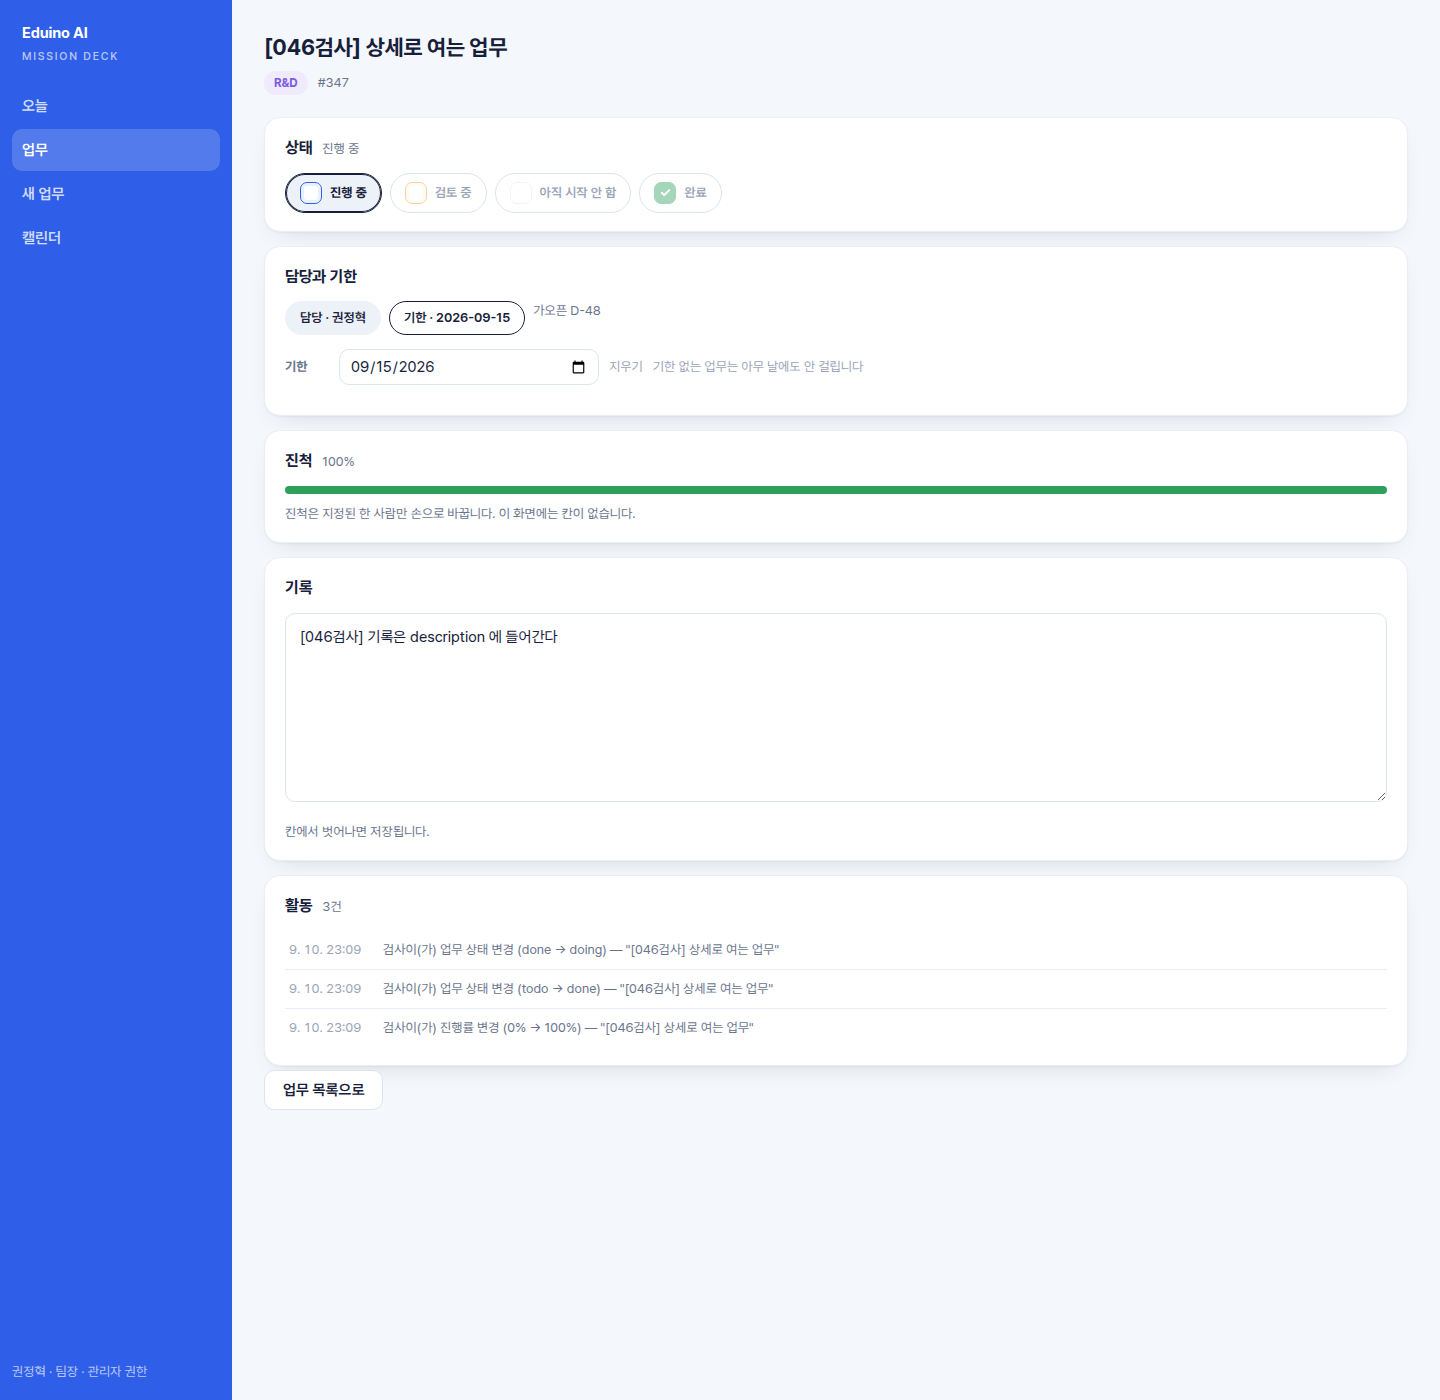
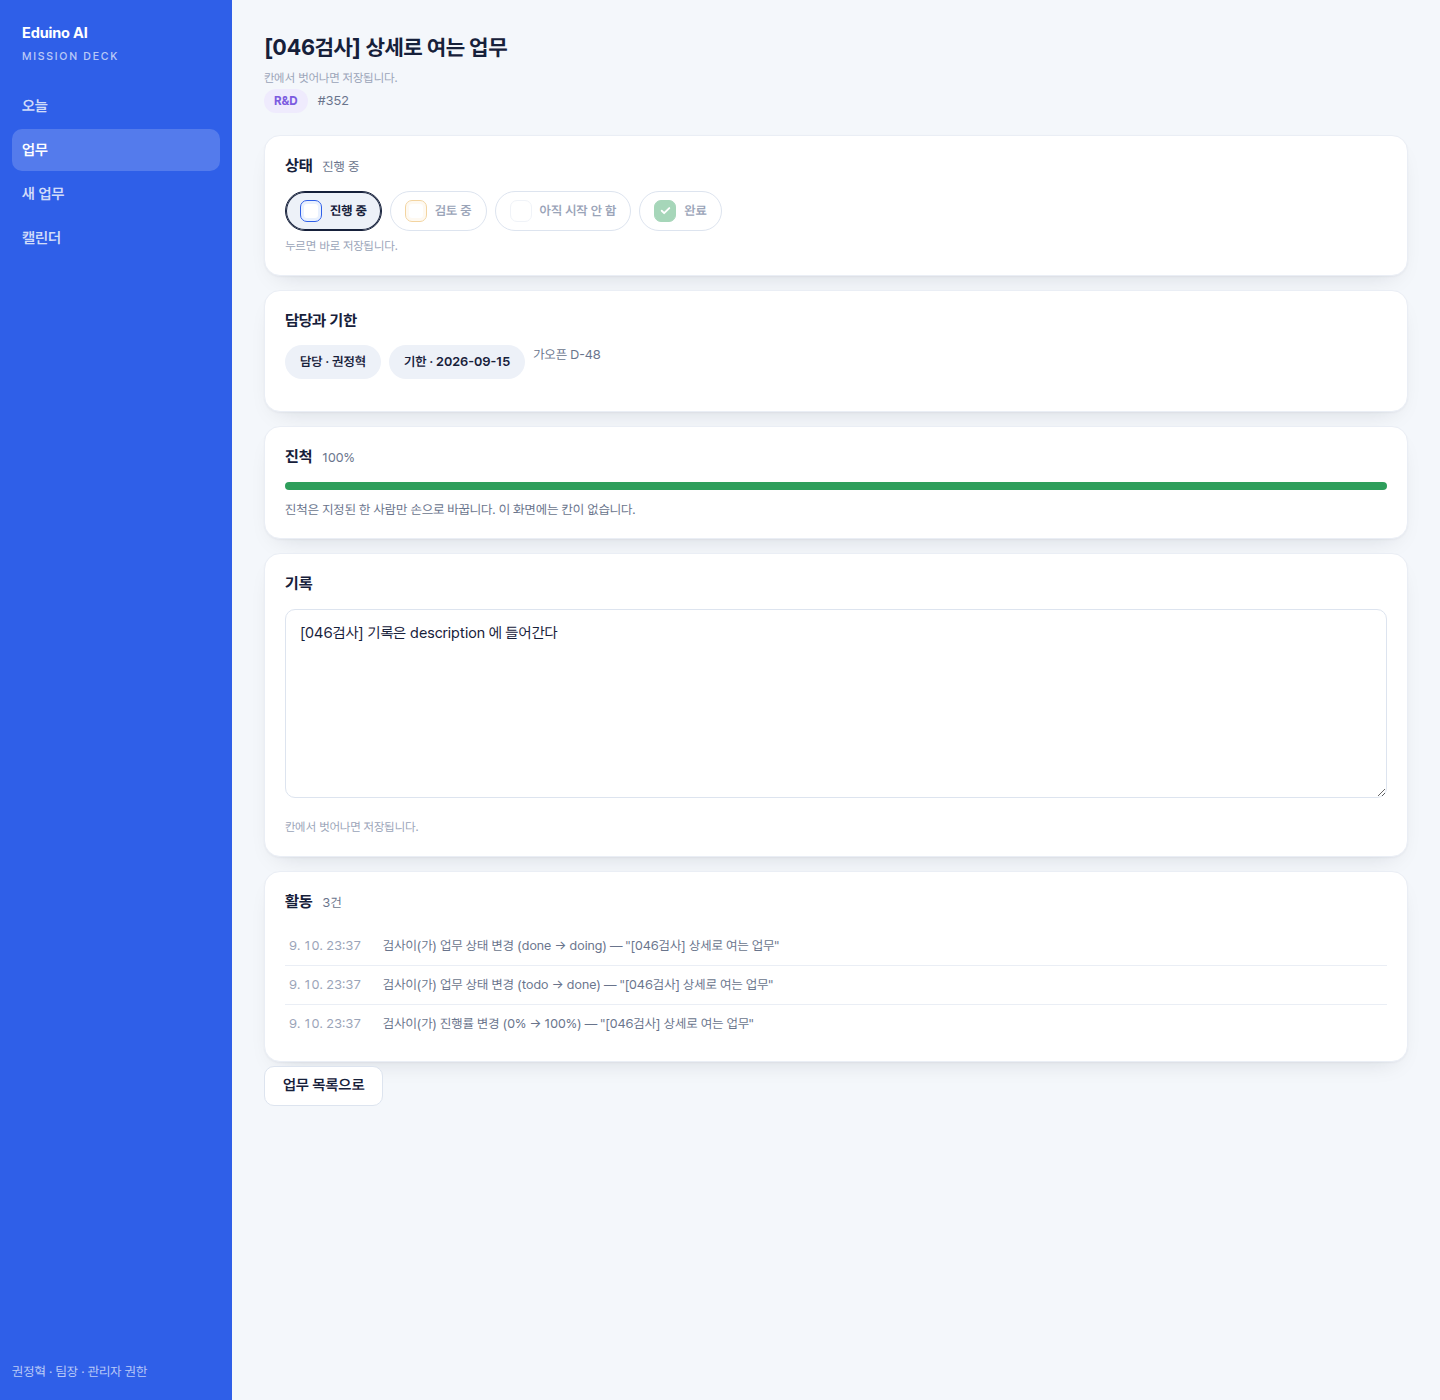
MD-P-2026-047 §B — 저장이 보이게 (31/31)
칸에서 벗어날 때 저장하는 방식은 그대로 뒀다 — 버튼을 만들면 안 누르고 나가서
잃는다. 대신 **증거를 상시로** 둔다.

  · 칸마다 한 줄이 붙어 있고 그 줄은 **안 사라진다**:
    안내 → 「저장 중…」 → 「마지막 저장 09:42」
  · 실패하면 같은 자리에 「저장 안 됨 · 사유」. 서버가 준 말 그대로다
  · 자리를 비워 두지 않는다(min-height) — 줄이 뛰면 누르려던 것을 빗맞힌다

시각은 **서버 것**을 쓴다. 응답의 `Date` 머리글이라 API 를 안 고치고 받을 수
있다. 브라우저 시계로 찍으면 시계가 틀린 기계에서 증거가 거짓말을 한다.

§B-1 빈 제목 — 화면이 서버 규칙을 그대로 비춘다
  API 는 빈 제목을 조용히 무시한다(조사표). 그래서 화면만 비면 「화면은 비었는데
  저장은 안 됨」이 되고 새로고침하면 옛 제목이 돌아온다. 보내기 전에 되돌리고
  「제목은 비울 수 없습니다」를 적는다. **API 는 안 고쳤다.**

§G 승격 두 건이 코드에 서 있다
  · 모양 하나가 두 가지를 말하게 두지 않는다 — 상태 카드가 지금 상태를 글자로도 적는다
  · 한 번에 하나씩 저장한다 — 저장 상태가 칸마다 따로다. 검사기 ㉣ 가
    기한이 400 을 받아도 제목 줄은 안 물드는 것을 값으로 확인한다

검사기 4건 추가 (㉠ ㉠짝 ㉡ ㉢ ㉣) — scripts/v3-detail-walk.mjs 31/31.

Claude-Session: https://claude.ai/code/session_01Xpp231V8pSM3sVcBoRknqv

diff --git a/components/v3/TaskDetailView.tsx b/components/v3/TaskDetailView.tsx
@@ -14,11 +14,18 @@
 // 못 바꾸는 것(진척)은 칸 대신 **이유 한 줄**을 단다 — 칸이 있는데 안 먹히는
 // 것보다, 칸이 없고 왜 없는지 적혀 있는 편이 낫다.
 //
-// ── 저장은 한 칸씩 ──────────────────────────────────────────────
+// ── 저장은 한 칸씩 (§G) ─────────────────────────────────────────
 //
 // 「저장」 버튼 하나로 묶지 않는다. 다섯 칸이 각자 다른 이유로 거절당할 수
 // 있는데(400·403), 묶어 보내면 어느 칸 때문인지 알 수가 없다. 한 칸씩 보내면
 // 서버가 준 이유가 **그 칸 옆에** 선다.
+//
+// ── 저장이 보이게 (047 §B) ──────────────────────────────────────
+//
+// 칸에서 벗어날 때 저장하는 방식은 그대로 둔다 — 버튼을 만들면 안 누르고
+// 나가서 잃는다. 대신 **증거를 상시로 둔다.** 칸마다 한 줄이 붙어 있고
+// 그 줄은 안 사라진다: 안내 → 저장 중… → 마지막 저장 09:42.
+// 실패하면 같은 자리에 「저장 안 됨 · 사유」가 선다.
 import { useCallback, useEffect, useState } from "react";
 import Link from "next/link";
 import { useRouter } from "next/navigation";
@@ -26,7 +33,8 @@ import { Card, InputChip, Button, Tag, Checkbox, Empty } from "./parts";
 import type { CbState } from "./parts";
 import {
   STATUS_CHOICES, statusEditable, progressWhy, dueOpenNote, patchBody, changed,
-  childSummary, type DetailTask, type ActivityRow, type EditField,
+  childSummary, saveNote, stampFrom, titleReject, IDLE,
+  type DetailTask, type ActivityRow, type EditField, type SaveState,
 } from "@/lib/v3/detail";
 import { dueTone } from "@/lib/v3/tasks";
 import { areaOf, type AreaView } from "@/lib/v3/category";
@@ -61,8 +69,12 @@ export default function TaskDetailView({
   const [task, setTask] = useState<DetailTask | null>(null);
   const [activity, setActivity] = useState<ActivityRow[]>([]);
   const [err, setErr] = useState("");        // 못 불러온 이유
-  const [saveErr, setSaveErr] = useState(""); // 서버가 거절한 이유 — **그대로** 낸다
-  const [busy, setBusy] = useState<EditField | null>(null);
+  /** 칸마다 따로 (§G — 한 번에 하나씩 저장한다). 하나로 묶으면 어느 칸이 거부됐는지 모른다. */
+  const [save, setSave] = useState<Record<EditField, SaveState>>({
+    title: IDLE, description: IDLE, status: IDLE, assigneeId: IDLE, dueDate: IDLE,
+  });
+  const put = (f: EditField, patch: Partial<SaveState>) =>
+    setSave((prev) => ({ ...prev, [f]: { ...prev[f], ...patch } }));
   const [open, setOpen] = useState<Set<string>>(new Set());
   // 편집 중인 글자. 저장 전까지는 화면 것이 이긴다.
   const [title, setTitle] = useState("");
@@ -84,21 +96,23 @@ export default function TaskDetailView({
    * 한 칸을 보낸다. **안 바뀐 값은 안 보낸다** — 보내면 활동 로그가 더러워지고,
    * 「고친 적 없는데 고쳤다고 적혀 있다」가 된다.
    */
-  const save = useCallback(async (field: EditField, value: string | number | null) => {
-    setSaveErr("");
-    setBusy(field);
+  const send = useCallback(async (field: EditField, value: string | number | null) => {
+    put(field, { busy: true, err: "" });
     const res = await fetch(`/api/tasks/${id}`, {
       method: "PATCH",
       headers: { "Content-Type": "application/json" },
       body: JSON.stringify(patchBody(field, value)),
     });
     const data = await res.json().catch(() => ({}));
-    setBusy(null);
     if (!res.ok) {
       // **서버가 준 이유를 그대로 낸다.** 삼키면 사람은 같은 저장을 반복한다.
-      setSaveErr(data.error ?? `저장하지 못했습니다 (${res.status})`);
+      // 「마지막 저장」 시각은 **안 건드린다** — 이번 것은 저장 안 됐으니까.
+      put(field, { busy: false, err: data.error ?? `저장하지 못했습니다 (${res.status})` });
       return false;
     }
+    // 시각은 **서버 것**을 쓴다(응답의 `Date` 머리글). 브라우저 시계로 찍으면
+    // 시계가 틀린 기계에서 증거로 내놓은 숫자가 거짓말을 한다.
+    put(field, { busy: false, err: "", savedAt: stampFrom(res.headers.get("date")) });
     await load();
     // 목록·오늘 화면이 옛 값을 들고 있을 수 있다. 되돌아갈 때 새로 읽게 한다.
     router.refresh();
@@ -107,6 +121,17 @@ export default function TaskDetailView({
 
   const toggle = (k: string) =>
     setOpen((prev) => { const n = new Set(prev); if (n.has(k)) n.delete(k); else n.add(k); return n; });
+
+  /**
+   * 그 칸의 저장 증거 한 줄. **안 사라진다** — 잠깐 떴다 사라지는 표시는
+   * 못 보면 없는 것과 같다(047 §B). `aria-live` 로 소리로도 알린다.
+   */
+  const Note = ({ field, hint }: { field: EditField; hint: string }) => {
+    const n = saveNote(save[field], hint);
+    return (
+      <p className={`v3-save t-${n.tone}`} aria-live="polite" data-field={field}>{n.text}</p>
+    );
+  };
 
   if (err) {
     return (
@@ -144,21 +169,26 @@ export default function TaskDetailView({
         aria-label="제목"
         onChange={(e) => setTitle(e.target.value)}
         onBlur={() => {
-          const next = title.trim();
-          // 빈 제목은 API 가 **조용히 무시한다**(§B-1). 조용히 무시되느니
-          // 되돌려 놓고 이유를 적는다 — 지웠는데 남아 있으면 고장으로 읽힌다.
-          if (next === "") { setTitle(task.title); setSaveErr("제목은 비울 수 없습니다."); return; }
-          if (changed(task.title, next)) void save("title", next);
+          /*
+           * 빈 제목은 API 가 **조용히 무시한다**(§B-1 조사표). 화면만 비워 두면
+           * 「화면은 비었는데 저장은 안 됨」이 되고, 새로고침하면 옛 제목이
+           * 돌아온다 — 사람은 그걸 고장으로 읽는다.
+           *
+           * 그래서 보내기 전에 화면이 **서버 규칙을 그대로 비춘다**: 되돌리고
+           * 이유를 적는다. API 는 안 고친다 (047 §B-1).
+           */
+          const why = titleReject(title);
+          if (why) { setTitle(task.title); put("title", { busy: false, err: why }); return; }
+          if (changed(task.title, title.trim())) void send("title", title.trim());
         }}
       />
+      <Note field="title" hint="칸에서 벗어나면 저장됩니다." />
 
       <p className="v3-lede v3-dmeta">
         {area && <Tag area={area} />}
         <span>#{task.id}</span>
         {kids && <span>{kids}</span>}
       </p>
-
-      {saveErr && <p className="v3-err v3-dsave">{saveErr}</p>}
 
       {/*
         지금 상태를 **글자로도** 적는다(`sub`). 네 칸 중 하나만 테두리가 진한
@@ -175,14 +205,15 @@ export default function TaskDetailView({
                 type="button"
                 className={`v3-stbtn${task.status === s.value ? " on" : ""}`}
                 aria-pressed={task.status === s.value}
-                disabled={busy === "status"}
-                onClick={() => { if (task.status !== s.value) void save("status", s.value); }}
+                disabled={save.status.busy}
+                onClick={() => { if (task.status !== s.value) void send("status", s.value); }}
               >
                 <Checkbox state={stateOf(s.value)} />
                 {s.label}
               </button>
             ))}
           </div>
+          <Note field="status" hint="누르면 바로 저장됩니다." />
           {/* 완료 되돌리기는 **여기에만** 있다 (지시 §B-2). 목록의 체크는 안 만든다 —
               스치듯 눌러서 되돌아가는 자리가 아니다. */}
           {task.status === "done" && (
@@ -216,8 +247,8 @@ export default function TaskDetailView({
         {open.has("assignee") && (
           <div className="v3-newrow">
             <label htmlFor="v3-d-as">담당</label>
-            <select id="v3-d-as" value={task.assigneeId ?? ""} disabled={busy === "assigneeId"}
-                    onChange={(e) => void save("assigneeId", Number(e.target.value))}>
+            <select id="v3-d-as" value={task.assigneeId ?? ""} disabled={save.assigneeId.busy}
+                    onChange={(e) => void send("assigneeId", Number(e.target.value))}>
               {task.assigneeId === null && <option value="">— 담당 없음</option>}
               {people.map((p) => <option key={p.id} value={p.id}>{p.name}</option>)}
             </select>
@@ -226,13 +257,14 @@ export default function TaskDetailView({
             <span className="v3-newwhy">담당을 비우는 자리는 두지 않았습니다</span>
           </div>
         )}
+        {open.has("assignee") && <Note field="assigneeId" hint="고르면 바로 저장됩니다." />}
         {open.has("due") && (
           <div className="v3-newrow">
             <label htmlFor="v3-d-due">기한</label>
-            <input id="v3-d-due" type="date" value={task.dueDate ?? ""} disabled={busy === "dueDate"}
-                   onChange={(e) => void save("dueDate", e.target.value)} />
+            <input id="v3-d-due" type="date" value={task.dueDate ?? ""} disabled={save.dueDate.busy}
+                   onChange={(e) => void send("dueDate", e.target.value)} />
             {task.dueDate && (
-              <button type="button" className="v3-clear" onClick={() => void save("dueDate", "")}>
+              <button type="button" className="v3-clear" onClick={() => void send("dueDate", "")}>
                 지우기
               </button>
             )}
@@ -240,6 +272,7 @@ export default function TaskDetailView({
             <span className="v3-newwhy">기한 없는 업무는 아무 날에도 안 걸립니다</span>
           </div>
         )}
+        {open.has("due") && <Note field="dueDate" hint="고르면 바로 저장됩니다." />}
       </Card>
 
       <Card title="진척" sub={`${task.effectiveProgress}%`}>
@@ -259,10 +292,10 @@ export default function TaskDetailView({
           placeholder="무엇을 왜 하는지, 알아 둘 것이 있으면 적어 두세요."
           value={note}
           onChange={(e) => setNote(e.target.value)}
-          onBlur={() => { if (changed(task.description, note)) void save("description", note); }}
+          onBlur={() => { if (changed(task.description, note)) void send("description", note); }}
         />
         {/* 문구에 백틱·별표를 쓰지 않는다 — 여기는 마크다운이 아니라서 글자 그대로 찍힌다. */}
-        <p className="v3-why">칸에서 벗어나면 저장됩니다.</p>
+        <Note field="description" hint="칸에서 벗어나면 저장됩니다." />
       </Card>
 
       {task.children.length > 0 && (
@@ -293,7 +326,6 @@ export default function TaskDetailView({
 
       <div className="v3-newfoot">
         <Button onClick={() => router.push("/v3/tasks")}>업무 목록으로</Button>
-        {busy && <span className="v3-newwhy">저장 중…</span>}
       </div>
     </>
   );

diff --git a/lib/v3/detail.ts b/lib/v3/detail.ts
@@ -141,6 +141,76 @@ export function changed(before: string | number | null, after: string | number |
   return (before ?? "") !== (after ?? "");
 }
 
+/* ══ 저장이 보이게 (MD-P-2026-047 §B) ═══════════════════════════════
+ *
+ * 칸에서 벗어날 때 저장하는 방식은 그대로 둔다 — 버튼을 만들면 안 누르고 나가서
+ * 잃는다. 대신 **저장된 증거가 화면에 상시로 있어야 한다.**
+ *
+ * 잠깐 떴다 사라지는 표시는 못 보면 없는 것과 같다. 그래서 이 자리는
+ * **안 사라진다**: 저장 전에는 안내, 저장 중에는 「저장 중…」, 저장 뒤에는
+ * 「마지막 저장 09:42」가 그대로 남는다. 실패하면 사유가 **그 칸 옆에** 선다.
+ *
+ * 상태가 칸마다 따로인 이유는 §G 다 — **한 번에 하나씩 저장한다.** 하나로
+ * 묶으면 다섯 칸 중 어느 것이 거부됐는지 알 수 없다.
+ */
+export type SaveTone = "hint" | "busy" | "ok" | "err";
+
+export interface SaveState {
+  busy: boolean;
+  /** 서버가 저장을 확인한 시각(ms). 아직 없으면 null. */
+  savedAt: number | null;
+  /** 서버가 준 거절 사유. **그대로** 담는다 — 고쳐 적으면 다른 말이 된다. */
+  err: string;
+}
+
+export const IDLE: SaveState = { busy: false, savedAt: null, err: "" };
+
+/**
+ * 시각을 **KST 시:분**으로. 날짜를 자르는 것이 아니라 순간을 찍는 것이지만,
+ * 시간대는 여기서도 정하고 본다 — 「09:42」가 기계마다 다르면 증거가 아니다.
+ */
+export function clockKst(ms: number): string {
+  return new Intl.DateTimeFormat("ko-KR", {
+    timeZone: "Asia/Seoul", hour: "2-digit", minute: "2-digit", hour12: false,
+  }).format(new Date(ms));
+}
+
+/** 그 칸 옆에 적을 한 줄. **빈 문자열을 내지 않는다** — 자리가 없어지면 줄이 뛴다. */
+export function saveNote(s: SaveState, hint: string): { tone: SaveTone; text: string } {
+  if (s.busy) return { tone: "busy", text: "저장 중…" };
+  // 실패가 성공보다 먼저다. 「마지막 저장 09:42」 옆에서 조용히 실패하면
+  // 사람은 저장된 줄 안다.
+  if (s.err) return { tone: "err", text: `저장 안 됨 · ${s.err}` };
+  if (s.savedAt !== null) return { tone: "ok", text: `마지막 저장 ${clockKst(s.savedAt)}` };
+  return { tone: "hint", text: hint };
+}
+
+/**
+ * 서버가 저장을 확인한 시각. **응답의 `Date` 머리글**을 쓴다.
+ *
+ * 브라우저 시계로 찍으면 시계가 틀린 기계에서 「마지막 저장 03:12」가 뜬다 —
+ * 증거로 내놓은 숫자가 거짓말을 하는 셈이다. `Date` 는 HTTP 가 늘 붙이는
+ * 머리글이라 **API 를 안 고치고** 서버 시각을 받을 수 있다.
+ * 없거나 못 읽으면 브라우저 시계로 내려간다 — 시각이 아예 없는 것보다 낫다.
+ */
+export function stampFrom(dateHeader: string | null): number {
+  const ms = dateHeader ? Date.parse(dateHeader) : NaN;
+  return Number.isFinite(ms) ? ms : Date.now();
+}
+
+/**
+ * 빈 제목은 API 가 **조용히 무시한다**(§B-1 조사표). 화면만 비면
+ * 「화면은 비었는데 저장은 안 됨」이 되고, 새로고침하면 옛 제목이 돌아온다.
+ *
+ * 그래서 보내기 전에 화면이 **서버 규칙을 그대로 비춘다** — 되돌리고 이유를 적는다.
+ * API 는 안 고친다 (047 §B-1).
+ */
+export const EMPTY_TITLE_WHY = "제목은 비울 수 없습니다";
+
+export function titleReject(next: string): string | null {
+  return next.trim() === "" ? EMPTY_TITLE_WHY : null;
+}
+
 /** 하위 진행 요약. 하위가 없으면 `null` — 없는 줄을 그리지 않는다. */
 export function childSummary(t: Pick<DetailTask, "children">): string | null {
   if (t.children.length === 0) return null;

diff --git a/app/v3.css b/app/v3.css
@@ -322,11 +322,24 @@
 .v3-crumb a { color: var(--v3-ink-2); text-decoration: none; font-weight: 600; }
 .v3-crumb a:hover { text-decoration: underline; }
 
-.v3-dtitle { margin-bottom: 8px; }
+.v3-dtitle { margin-bottom: 4px; }
+
+/* ── 047 §B — 저장이 보이게 ───────────────────────────────────────
+   **이 줄은 안 사라진다.** 잠깐 떴다 사라지는 표시는 못 보면 없는 것과 같다.
+   안내 → 저장 중… → 마지막 저장 09:42 가 같은 자리에서 갈아 끼워지고,
+   실패하면 같은 자리에 사유가 선다. 자리가 없어지지 않으니 줄도 안 뛴다.
+   높이를 고정하는 이유가 그것이다. */
+.v3-save { display: block; min-height: 20px; margin: 6px 0 0; font-size: 12px;
+  color: var(--v3-ink-3); font-variant-numeric: tabular-nums; }
+.v3-save.t-busy { color: var(--v3-ink-2); }
+/* 저장됨 — 초록. 체크와 같은 색이다: 「끝났다」를 한 색으로 말한다. */
+.v3-save.t-ok { color: var(--v3-done); font-weight: 600; }
+/* 저장 안 됨 — 코랄 + 굵게. 성공 옆에서 조용하면 저장된 줄 안다. */
+.v3-save.t-err { color: var(--v3-late); font-weight: 700; }
 /* 제목 아래 한 줄 — 카테고리 · 번호 · 하위 요약. 가로로 흐른다. */
 .v3-dmeta { display: flex; flex-wrap: wrap; align-items: center; gap: 10px; font-size: 13px; }
-/* 저장 거절 사유는 **제목 바로 아래**에 선다. 화면 끝에 두면 못 본다. */
-.v3-dsave { margin: 0 0 var(--v3-gap); }
+/* `.v3-dsave`(화면 하나짜리 저장 오류 줄)는 047 §B 에서 거뒀다. 사유는 이제
+   화면 위가 아니라 **거절당한 그 칸 옆**에 선다 (`.v3-save.t-err`). */
 
 /* 상태 칸 — 네모(체크)와 이름을 같이 세운다. 모양만으로는 배워야 알 수 있다.
    **카테고리 색을 안 빌린다.** 상태와 영역은 다른 신호인데 같은 팔레트를 쓰면
